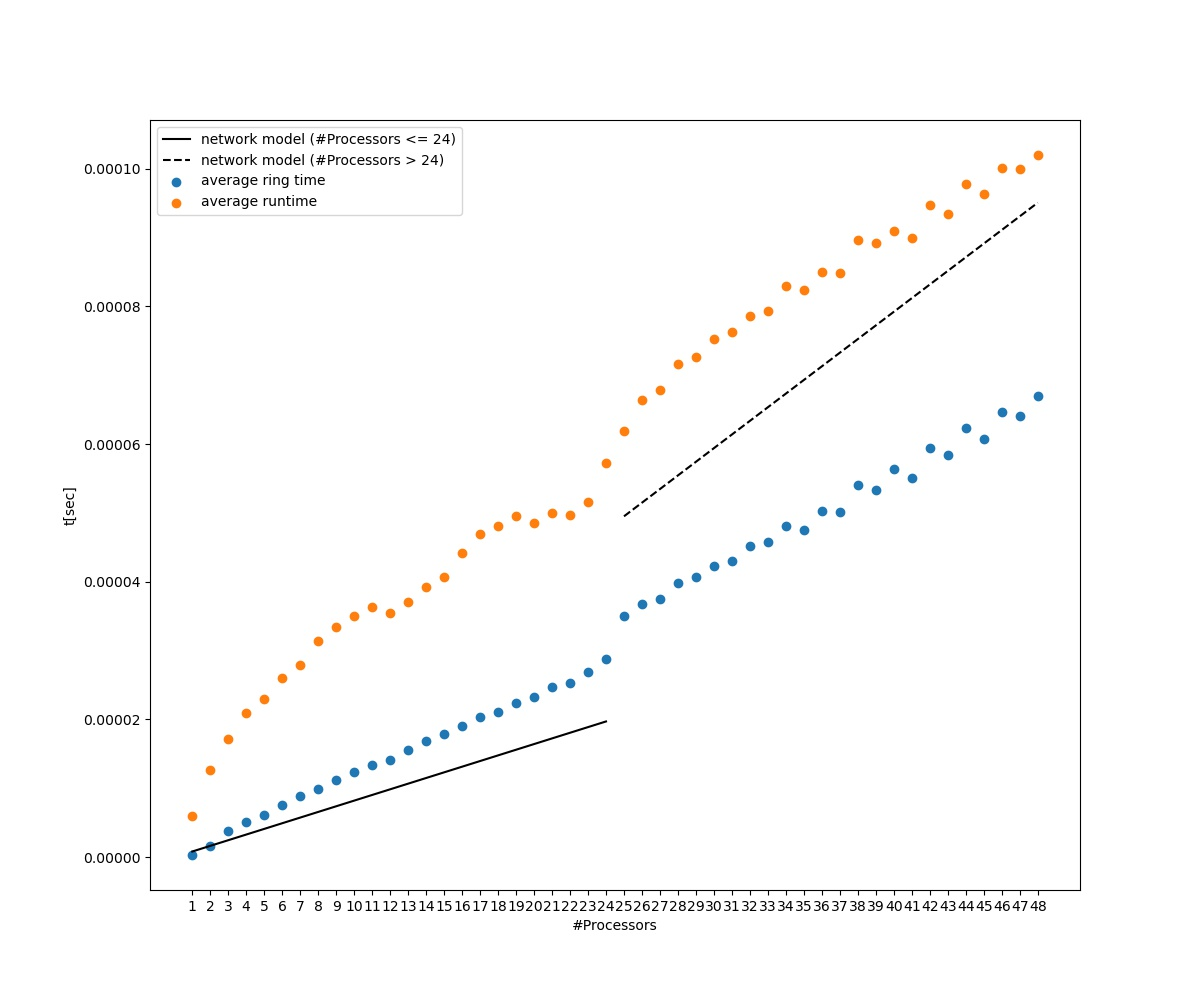
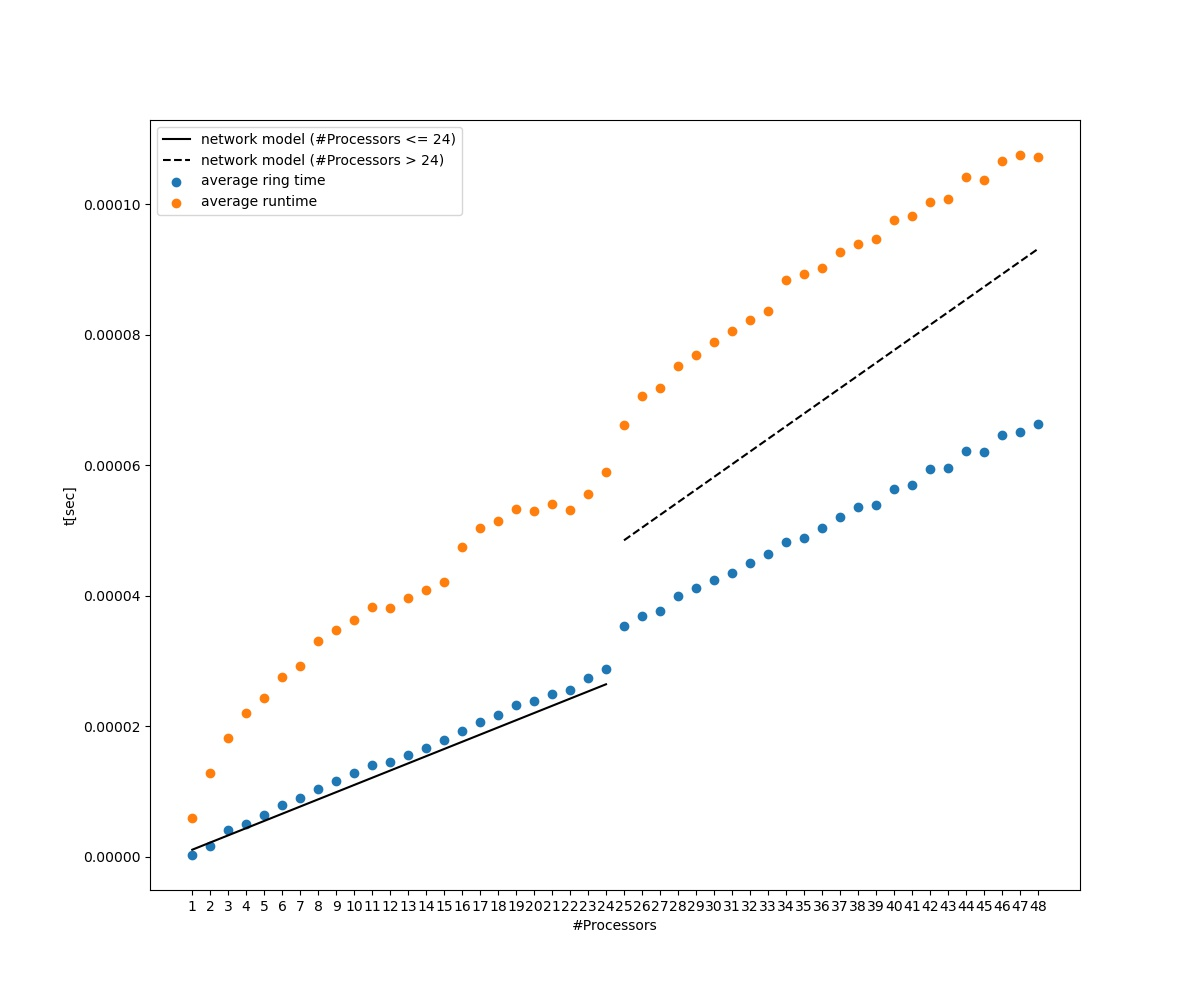
process data

diff --git a/assigment1/section1/exercise1/plot_times.py b/assigment1/section1/exercise1/plot_times.py
@@ -34,14 +34,14 @@ if __name__ == '__main__':
     plt.ylabel("t[sec]")
 
     x = np.arange(1, 25)
-    c = 0.41 / 1000000
-    bandwidth = 5460
+    c = 0.55 / 1000000
+    bandwidth = 3520
     message_size = 4
     y = [T_comm(message_size, c, bandwidth, num_proc) for num_proc in x]
     plt.plot(x, y, 'k-', label="network model (#Processors <= 24)")
 
     x = np.arange(25, 49)
-    c = 0.99 / 1000000
+    c = 0.97 / 1000000
     bandwidth = 12060
     message_size = 4
     y = [T_comm(message_size, c, bandwidth, num_proc) for num_proc in x]

diff --git a/assigment1/section3/compute_and_plot.py b/assigment1/section3/compute_and_plot.py
@@ -153,8 +153,8 @@ if __name__ == '__main__':
     L = 1200
     T_s = 22.07
 
-    B = 12060 * 2 * 1000
-    T_l = 0.99 / 1000000
+    B = 12020 * 2 * 1000
+    T_l = 1.39 / 1000000
     k = 3
 
     for N in [12, 24, 48]:
